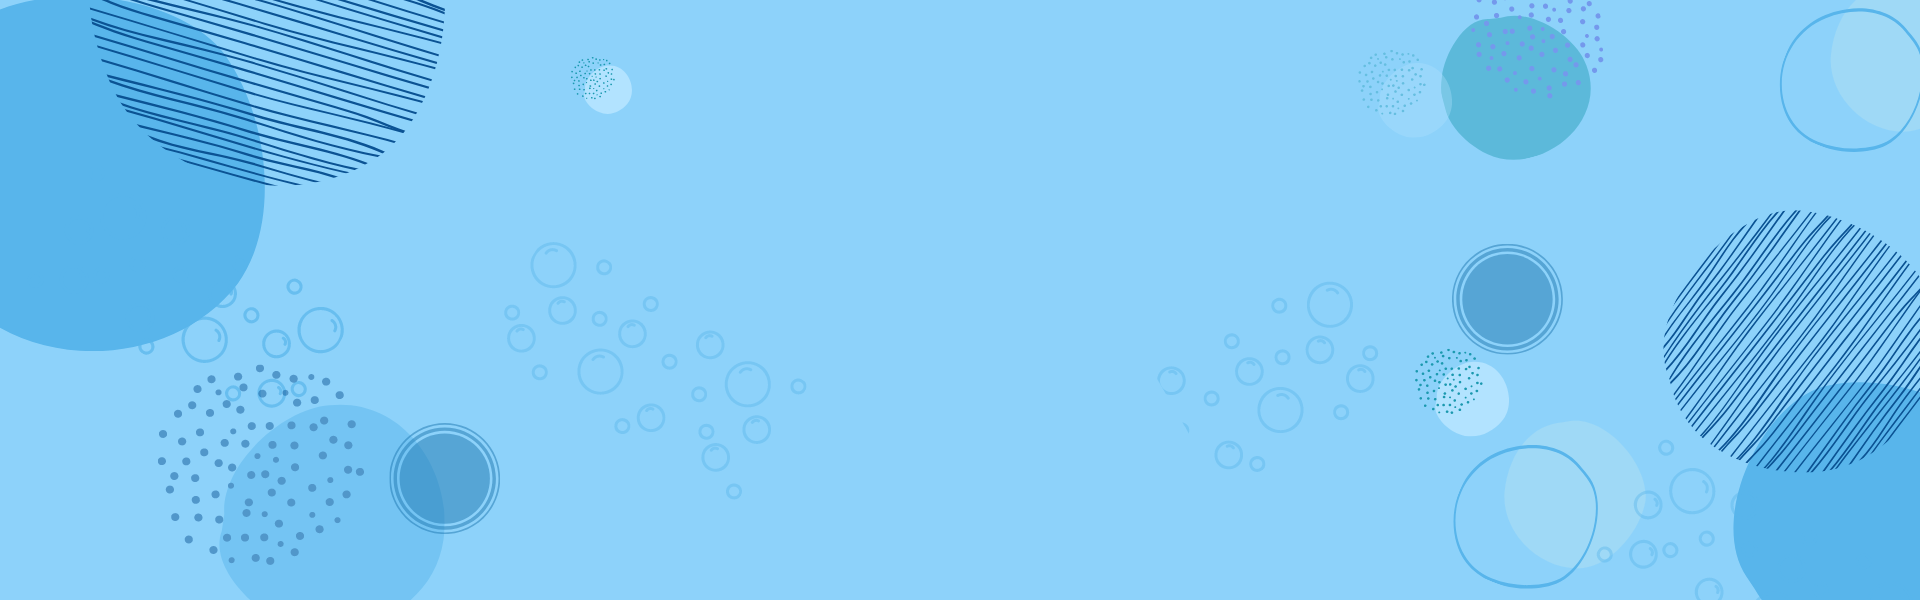
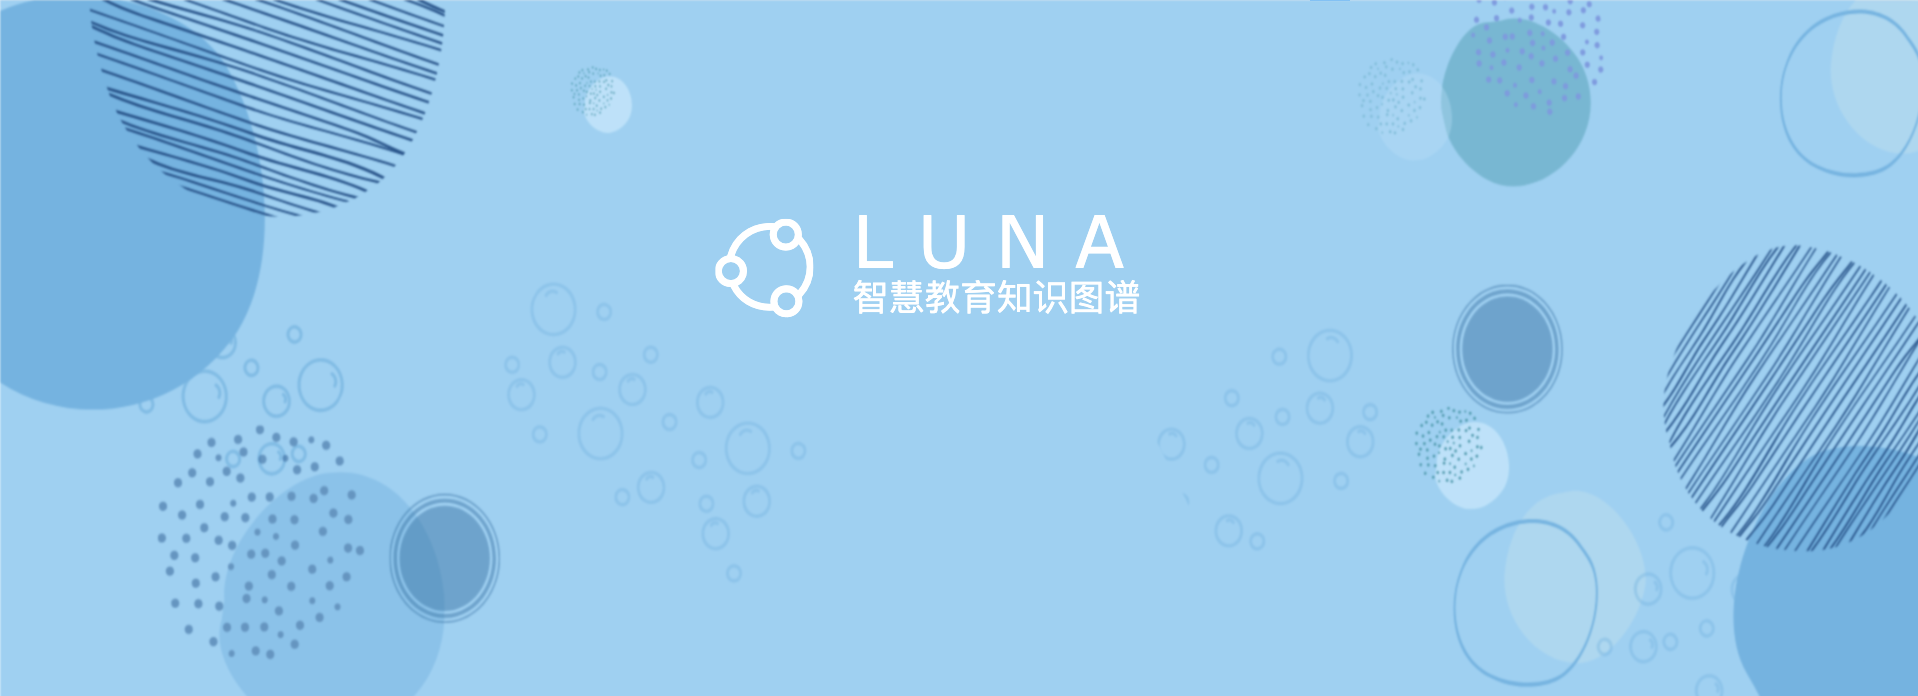
issue27 - update-displays

diff --git a/src/App.vue b/src/App.vue
@@ -157,7 +157,7 @@
             </el-col>
             <el-col :span="8" :offset="1">
               <el-row type="flex" justify="end" >
-                <vue-img-verify @getImgCode="getImgCode_reg" ref="vueImgVerify_reg" />
+                <vue-img-verify @getImgCode="getImgCode_reg" ref="vueImgVerify_reg"/>
               </el-row>
             </el-col>
           </el-row>
@@ -173,21 +173,91 @@
     <header>
       <div id="header-sticky" class="menu-area">
         <div class="container">
-          <div class="row align-items-center">
-            <div class="col-lg-2">
-              <div class="logo">
-                <img src="./assets/kglogo.png" alt="Logo" />
-              </div>
-            </div>
-            <div class="col-lg-10">
-              <div class="main-menu text-right">
+          <el-row>
+            <el-col :span="4" style="padding-top: 5vh;">
+              <img src="./assets/luna_icon.png" alt="Logo" width="150px"/>
+            </el-col>
+            <el-col :span="12" :offset="8">
+              <el-row class="navbar" type="flex" justify="end">
+                <el-col :span="4">
+                  <router-link to="/" :underline="false" class="navbar">
+                    <span>首页</span>
+                  </router-link>
+                </el-col>
+                <el-col :span="4">
+                  <el-menu :default-active="activeIndex" mode="horizontal">
+                    <el-submenu index="0" style="padding-top: 0.5vh">
+                      <template slot="title"><span style="font-size: 18px; font-weight: bold; color: black">功能</span></template>
+                      <el-submenu index="1">
+                        <template slot="title"><span style="color: black; font-weight: bold">资源录入</span></template>
+                        <el-menu-item index="1-1"><span style="color:	Gainsboro; font-weight: bold">学习资源</span></el-menu-item>
+                        <el-menu-item index="1-2">
+                          <router-link to="/inputMarked" :underline="false">
+                            <span style="color: black; font-weight: bold">试题资源</span>
+                          </router-link>
+                        </el-menu-item>
+                        <el-menu-item index="1-3"><span style="color: Gainsboro; font-weight: bold">试卷资源</span></el-menu-item>
+                        <el-menu-item index="1-4"><span style="color:	Gainsboro; font-weight: bold">知识体系</span></el-menu-item>
+                      </el-submenu>
+                      <el-submenu index="2">
+                        <template slot="title"><span style="color: black; font-weight: bold">查询</span></template>
+                        <el-menu-item index="2-1">
+                          <router-link to="/exercise" :underline="false">
+                            <span style="color: black; font-weight: bold">试题检索</span>
+                          </router-link>
+                        </el-menu-item>
+                        <el-menu-item index="2-2">
+                          <router-link to="/ku" :underline="false">
+                            <span style="color: black; font-weight: bold">知识单元检索</span>
+                          </router-link>
+                        </el-menu-item>
+                      </el-submenu>
+                      <el-submenu index="3">
+                        <template slot="title"><span style="color: black; font-weight: bold">分析</span></template>
+                        <el-menu-item index="3-1"><span style="color: Gainsboro; font-weight: bold">学习资源</span></el-menu-item>
+                        <el-menu-item index="3-2"><span style="color: Gainsboro; font-weight: bold">试卷资源</span></el-menu-item>
+                      </el-submenu>
+                      <el-menu-item index="4">
+                        <router-link to="/estimate" :underline="false">
+                            <span style="color: black; font-weight: bold">试题属性预估</span>
+                          </router-link>
+                      </el-menu-item>
+                      <el-menu-item index="5">
+                        <router-link to="/similarity" :underline="false">
+                            <span style="color: black; font-weight: bold">相似题预估</span>
+                          </router-link>
+                      </el-menu-item>
+                    </el-submenu>
+                  </el-menu>
+                </el-col>
+                <el-col :span="5">
+                  <el-link href="http://bigdata.ustc.edu.cn/" target="_blank" class="navbar"><span style="color: black">实验室主页</span></el-link>
+                </el-col>
+                <el-col :span="4">
+                  <el-dropdown trigger="hover" v-if="username"  class="navbar">
+                    <span class="el-dropdown-link user-inner">
+                      {{ username }}
+                      <i class="el-icon-arrow-down el-icon--right"></i>
+                    </span>
+                    <el-dropdown-menu slot="dropdown">
+                      <el-dropdown-item @click.native="logout"
+                        >退出登录</el-dropdown-item
+                      >
+                    </el-dropdown-menu>
+                  </el-dropdown>
+                  <el-button type="text" @click="login_show" v-else class="navbar">登录</el-button>
+                </el-col>
+                <el-col :span="2">
+                  <el-button type="text" @click="register_show" class="navbar">注册</el-button>
+                </el-col>
+              </el-row>
+              <!-- <div class="main-menu text-right">
                 <nav id="mobile-menu">
                   <ul>
                     <li>
                       <router-link to="/" :underline="false">首页</router-link>
                     </li>
                     <li class="drop-down">
-                      <!-- <router-link to="/estimate">试题评估</router-link> -->
                       <el-dropdown placement="bottom">
                         <span class="el-dropdown-link">
                           API&emsp;<i class="el-icon-arrow-down"></i>
@@ -227,7 +297,6 @@
                           
                         </el-dropdown-menu>
                       </el-dropdown>
-                      <!--实现下拉菜单-->
                     </li>
                     <li>
                       <a
@@ -257,9 +326,9 @@
                     <button class="text-btn" @click="register_show">注册</button>
                   </ul>
                 </nav>
-              </div>
-            </div>
-          </div>
+              </div> -->
+            </el-col>
+          </el-row>
         </div>
       </div>
     </header>
@@ -325,8 +394,32 @@ export default {
       verifyCode_reg: "",
       email_reg: "",
       school_reg: "",
-      prefession_reg: ""
+      profession_reg: "",
+      // activeIndex: 下拉菜单用的
+      activeIndex: ""
     };
+  },
+  watch:{
+    login_visible(newVal){
+      if(!newVal){
+        this.imgCode = "";
+        this.account = "";
+        this.pass = "";
+      }
+      this.login_visible = newVal;
+    },
+    register_visible(newVal){
+      if(!newVal){
+        this.imgCode_reg = "";
+        this.account_reg = "";
+        this.pass_reg = "";
+        this.pass_reg2 = "";
+        this.email_reg = "";
+        this.school_reg = "";
+        this.profession_reg = "";
+      }
+      this.register_visible = newVal;
+    }
   },
   mounted() {
     var user = sessionStorage.getItem("user");
@@ -352,10 +445,16 @@ export default {
       // this.$router.push({ path: "/login" });
       this.register_visible = false;
       this.login_visible = true;
+      setTimeout(()=>{
+        this.$refs.vueImgVerify.handleDraw();}, 
+      1)
     },
     register_show(){
       this.login_visible = false;
       this.register_visible = true;
+      setTimeout(()=>{
+        this.$refs.vueImgVerify_reg.handleDraw();}, 
+      1)
     },
     register() {
       // this.$router.push({ path: "/register" });
@@ -364,7 +463,7 @@ export default {
       console.log(this.pass_reg2);
       console.log(this.email_reg);
       console.log(this.school_reg);
-      console.log(this.prefession_reg);
+      console.log(this.profession_reg);
     },
     login_admin() {
       this.$router.push({ path: "/admin" });
@@ -386,7 +485,9 @@ export default {
     // 点击图片获取验证码
     getImgCode(code) {
       this.imgCode = code;
-      console.log("验证码: " + this.imgCode);
+    },
+    getImgCode_reg(code){
+      this.imgCode_reg = code;
     },
     // 登录
     login() {
@@ -595,7 +696,11 @@ export default {
 .user-inner {
   cursor: pointer;
   color: #1a2930;
-  margin-right: -23px;
-  padding-left: 45px;
+}
+.navbar {
+  padding: 20px 0px 0px 0px;
+  font-size: 18px; 
+  font-weight: bold;
+  color: black;
 }
 </style>

diff --git a/src/components/Home.vue b/src/components/Home.vue
@@ -2,31 +2,7 @@
   <!--todo: polish the format-->
   <div class="home">
     <section class="slider-area slider-bg" >
-      <el-row  class="slider-content text-center">
-        <el-col :span="4" :offset="6">
-          <img src="../assets/icon1.png" style="margin-top: 12vh" width="100vh" height="100vh"/>
-        </el-col>
-        <el-col :span="6"  style="text-align-last: justify; display: inline-block; text-align: justify; margin-top: 9vh">
-          <el-row>
-            <el-col :span="6">
-              <h2>L</h2>
-            </el-col>
-            <el-col :span="6">
-              <h2>U</h2>
-            </el-col>
-            <el-col :span="6">
-              <h2>N</h2>
-            </el-col>
-            <el-col :span="6">
-              <h2>A</h2>
-            </el-col>
-          </el-row>
-          <el-row>
-            <h1 style="color: #fff; margin-top: 10px;">智慧教育知识图谱</h1>
-          </el-row>
-        </el-col> 
-      </el-row>
-      <el-row type="flex" class="row-bg" justify="center" style="margin-top: 50px;">
+      <el-row type="flex" class="row-bg" justify="center" style="padding-top: 400px;">
         <el-col :span="14">
           <el-input
             v-model="ku_name"

diff --git a/src/components/vue-img-verify.vue b/src/components/vue-img-verify.vue
@@ -13,7 +13,7 @@
 export default {
   data() {
     return {
-      pool: 'ABCDEFGHIJKLMNOPQRSTUVWXYZ1234567890', // 字符串
+      pool: 'ABCDEFGHJKLMNPQRSTUVWXYZ1234567890', // 字符串
       width: 120,
       height: 40,
       imgCode: ''
